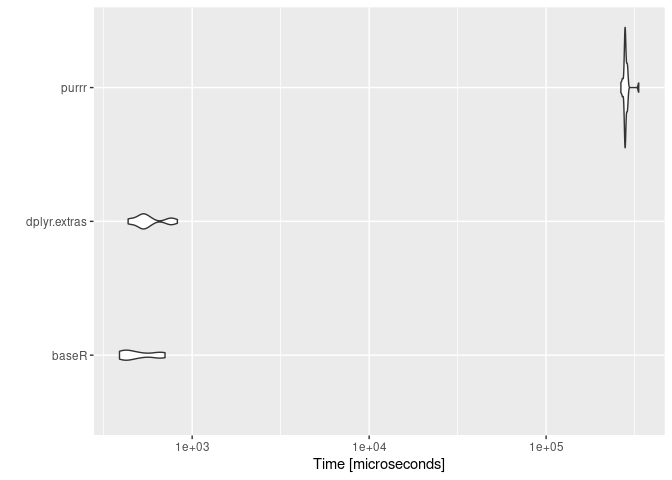
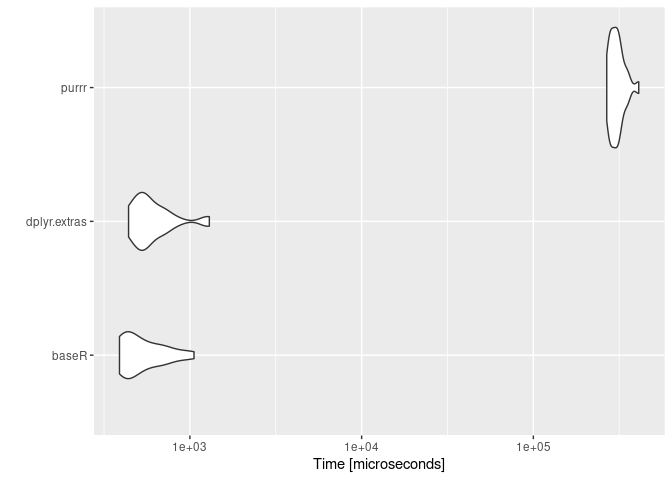
update readme

diff --git a/README.md b/README.md
@@ -150,72 +150,23 @@ get_data_from_my_table = function(con, var1 = NULL, var2 = NULL, var3 = NULL) {
 to query data with the filters we give. If `var1` is `NULL`, for
 example, we won’t filter the values in Column1 of our table, and so on.
 
-### `add_count` but without count
-
-Sometimes, given a dataframe `df` like above we would like to add
-columns that somehow aggregate the dataframe. The function
-`dplyr::add_cout` does this with count:
-
-``` r
-df %>% add_count(b, name = 'count')
-#> # A tibble: 10 × 3
-#>         a b     count
-#>     <dbl> <chr> <int>
-#>  1 0.266  a         1
-#>  2 0.372  b         2
-#>  3 0.573  b         2
-#>  4 0.908  c         3
-#>  5 0.202  c         3
-#>  6 0.898  c         3
-#>  7 0.945  d         4
-#>  8 0.661  d         4
-#>  9 0.629  d         4
-#> 10 0.0618 d         4
-```
-
-What if we wanted to summarise the max of `a` for each `b` instead of
-counting?
-
-``` r
-df %>% 
-  left_join(
-    df %>% summarise(max = max(a), .by = b)
-  )
-#> Joining with `by = join_by(b)`
-#> # A tibble: 10 × 3
-#>         a b       max
-#>     <dbl> <chr> <dbl>
-#>  1 0.266  a     0.266
-#>  2 0.372  b     0.573
-#>  3 0.573  b     0.573
-#>  4 0.908  c     0.908
-#>  5 0.202  c     0.908
-#>  6 0.898  c     0.908
-#>  7 0.945  d     0.945
-#>  8 0.661  d     0.945
-#>  9 0.629  d     0.945
-#> 10 0.0618 d     0.945
-```
-
-With `dplyr.extras` we can save some lines:
-
-``` r
-df %>% 
-  map_then_left_join(.f = \(df) df %>% summarise(max = max(a), .by = b))
-#> # A tibble: 10 × 3
-#>         a b       max
-#>     <dbl> <chr> <dbl>
-#>  1 0.266  a     0.266
-#>  2 0.372  b     0.573
-#>  3 0.573  b     0.573
-#>  4 0.908  c     0.908
-#>  5 0.202  c     0.908
-#>  6 0.898  c     0.908
-#>  7 0.945  d     0.945
-#>  8 0.661  d     0.945
-#>  9 0.629  d     0.945
-#> 10 0.0618 d     0.945
-```
+<!-- ### `add_count` but without count -->
+<!-- Sometimes, given a dataframe `df` like above we would like to add columns that somehow aggregate the dataframe. The function `dplyr::add_cout` does this with count: -->
+<!-- ```{r} -->
+<!-- df %>% add_count(b, name = 'count') -->
+<!-- ``` -->
+<!-- What if we wanted to summarise the max of `a` for each `b` instead of counting?  -->
+<!-- ```{r} -->
+<!-- df %>%  -->
+<!--   left_join( -->
+<!--     df %>% summarise(max = max(a), .by = b) -->
+<!--   ) -->
+<!-- ``` -->
+<!-- With `dplyr.extras` we can save some lines: -->
+<!-- ```{r} -->
+<!-- df %>%  -->
+<!--   map_then_left_join(.f = \(df) df %>% summarise(max = max(a), .by = b)) -->
+<!-- ``` -->
 
 ### Filtering and modifying vectors
 
@@ -257,27 +208,61 @@ sum(w)
 #> [1] 389
 ```
 
-### Performance of vec_mutate when compared to purrr
+#### Another example
+
+Let
 
 ``` r
 x = 1:1e5
+```
 
-# get the sum of all odd numbers in x
+Get the sum of all odd numbers in x:
+
+``` r
 x %>% vec_filter(\(x) x %% 2 == 0) %>% sum()
 #> [1] 2500050000
+```
 
-# get all numbers where the square of it is less than 10000
+Get all numbers where the square of it is less than 10000:
+
+``` r
 x %>% vec_filter(\(x) x^2 < 10000)
 #>  [1]  1  2  3  4  5  6  7  8  9 10 11 12 13 14 15 16 17 18 19 20 21 22 23 24 25
 #> [26] 26 27 28 29 30 31 32 33 34 35 36 37 38 39 40 41 42 43 44 45 46 47 48 49 50
 #> [51] 51 52 53 54 55 56 57 58 59 60 61 62 63 64 65 66 67 68 69 70 71 72 73 74 75
 #> [76] 76 77 78 79 80 81 82 83 84 85 86 87 88 89 90 91 92 93 94 95 96 97 98 99
+```
 
+#### Modifying dataframes
+
+Fill the `NA` values of a dataframe using another column:
+
+``` r
 # take values from column b when a is NA
-tibble::tibble(
+df = 
+  tibble::tibble(
   a = 1:10 %>% vec_mutate(NA, \(x) x %% 2 == 0)
   ,b = -(1:10)
-) %>% 
+) 
+
+df 
+#> # A tibble: 10 × 2
+#>        a     b
+#>    <int> <int>
+#>  1     1    -1
+#>  2    NA    -2
+#>  3     3    -3
+#>  4    NA    -4
+#>  5     5    -5
+#>  6    NA    -6
+#>  7     7    -7
+#>  8    NA    -8
+#>  9     9    -9
+#> 10    NA   -10
+```
+
+``` r
+df %>% 
   dplyr::mutate(
     if_a_is_na_then_b = a %>% vec_mutate(b, is.na)
   )
@@ -296,8 +281,12 @@ tibble::tibble(
 #> 10    NA   -10               -10
 ```
 
-Compared to `purrr::keep` and `purrr::modify`, `dplyr.extras` is faster
-because it only accepts vectors and vectorized functions.
+### Comparing vector manipulation with `purrr`
+
+The `purrr` package has two functions that are analogue to `vec_mutate`
+and `vec_filter`, respectively: `purrr::keep` and `purrr::modify`.
+However, `dplyr.extras` is faster because it only accepts vectors and
+vectorized functions, and the result is a vector (not a list).
 
 ``` r
 x = 1:1e5
@@ -318,14 +307,14 @@ mbm = microbenchmark::microbenchmark(
 
 mbm
 #> Unit: microseconds
-#>          expr        min         lq        mean     median         uq
-#>         baseR    388.460    413.266    509.0370    470.439    650.385
-#>  dplyr.extras    434.625    505.540    577.1983    536.025    590.488
-#>         purrr 264578.760 278283.763 282120.7121 279741.249 285190.041
-#>         max neval
-#>     702.293    25
-#>     824.900    25
-#>  333712.368    25
+#>          expr        min        lq        mean     median         uq        max
+#>         baseR    389.042    421.88    552.7139    469.952    671.028   1056.618
+#>  dplyr.extras    439.333    508.23    628.6824    561.893    672.648   1297.781
+#>         purrr 267616.134 282738.81 307406.1830 301738.524 318851.278 410925.056
+#>  neval
+#>     25
+#>     25
+#>     25
 ```
 
 ``` r
@@ -356,13 +345,13 @@ mbm2 = microbenchmark::microbenchmark(
 mbm2
 #> Unit: microseconds
 #>          expr        min         lq        mean     median         uq
-#>         baseR    350.278    389.774    530.7576    441.364    537.440
-#>  dplyr.extras    617.165    759.677   1057.1402    802.275   1306.195
-#>         purrr 262022.492 274642.117 279751.7688 277307.596 281017.938
+#>         baseR    373.026    436.768    609.4924    520.123    699.230
+#>  dplyr.extras    690.105    732.597   1114.8807    971.928   1314.007
+#>         purrr 251271.782 271122.177 289337.6700 278473.997 303992.804
 #>         max neval
-#>    1201.706    25
-#>    2501.607    25
-#>  361533.801    25
+#>    1287.846    25
+#>    2860.998    25
+#>  365765.380    25
 ```
 
 ``` r
